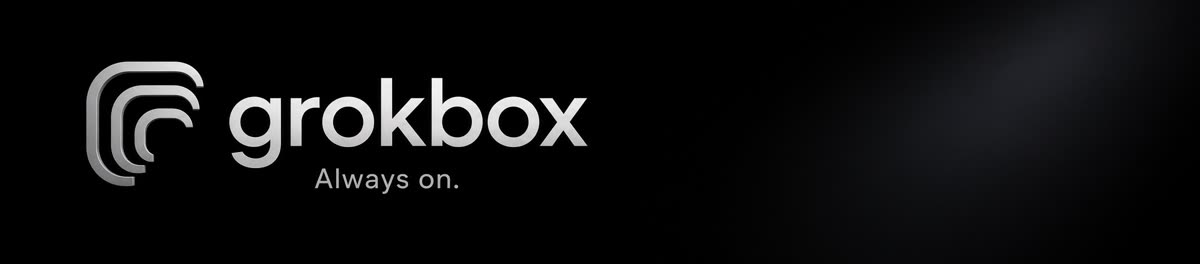
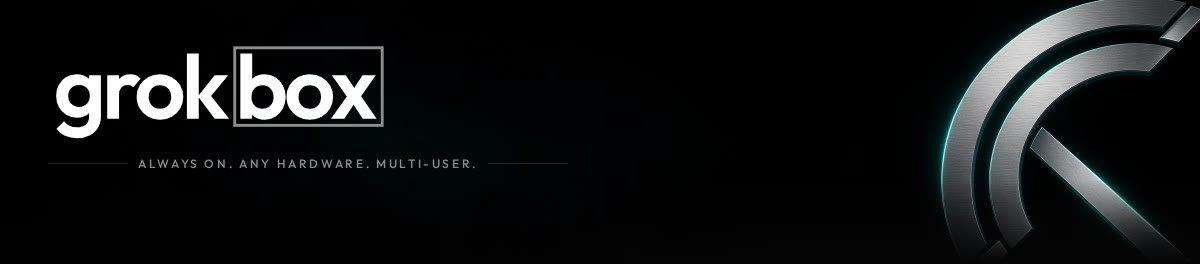
Regenerate share cards from the grokbox wordmark.
Link preview and X banner now lock up the site wordmark and tagline over the nested-arc mark.

Made-with: Grok

Changed region(s): [[0.0308, 0.1515, 0.4933, 0.7273], [0.74, 0.0, 1.0, 0.9394]]

diff --git a/scripts/share-cards.html b/scripts/share-cards.html
@@ -1,0 +1,152 @@
+<!DOCTYPE html>
+<html lang="en">
+  <head>
+    <meta charset="utf-8" />
+    <title>share cards</title>
+    <style>
+      @font-face {
+        font-family: "Outfit Variable";
+        src: url("../node_modules/@fontsource-variable/outfit/files/outfit-latin-wght-normal.woff2")
+          format("woff2");
+        font-weight: 100 900;
+        font-display: block;
+      }
+      html,
+      body {
+        margin: 0;
+        background: #000;
+      }
+      .card {
+        position: relative;
+        overflow: hidden;
+        color: #f4f4f4;
+        font-family: "Outfit Variable", Outfit, ui-sans-serif, system-ui, sans-serif;
+      }
+      .card img.bg {
+        position: absolute;
+        inset: 0;
+        width: 100%;
+        height: 100%;
+        object-fit: cover;
+      }
+      .scrim {
+        position: absolute;
+        inset: 0;
+      }
+      .lockup {
+        position: relative;
+        z-index: 1;
+        display: flex;
+        flex-direction: column;
+        align-items: center;
+        justify-content: center;
+      }
+      .wordmark {
+        display: block;
+        height: auto;
+      }
+      .tagline {
+        display: flex;
+        align-items: center;
+        gap: 14px;
+        margin: 0;
+        color: #8d8d8d;
+        font-weight: 500;
+        letter-spacing: 0.28em;
+        text-transform: uppercase;
+        white-space: nowrap;
+      }
+      .tagline span.rule {
+        height: 1px;
+        flex: 1;
+        background: rgb(244 244 244 / 0.14);
+      }
+      #og {
+        width: 1200px;
+        height: 630px;
+      }
+      #og .scrim {
+        background:
+          radial-gradient(
+            ellipse 70% 70% at 50% 45%,
+            rgb(0 0 0 / 0.42),
+            rgb(0 0 0 / 0.16) 55%,
+            rgb(0 0 0 / 0.52) 100%
+          ),
+          linear-gradient(to top right, #050505 0%, transparent 28%);
+      }
+      #og .lockup {
+        width: 100%;
+        height: 100%;
+        padding: 0 120px;
+        box-sizing: border-box;
+      }
+      #og .wordmark {
+        width: 640px;
+      }
+      #og .tagline {
+        width: min(720px, 100%);
+        margin-top: 28px;
+        font-size: 18px;
+      }
+      #banner {
+        width: 1200px;
+        height: 264px;
+      }
+      #banner .scrim {
+        background:
+          linear-gradient(
+            90deg,
+            rgb(0 0 0 / 0.78) 0%,
+            rgb(0 0 0 / 0.48) 40%,
+            rgb(0 0 0 / 0.1) 66%,
+            transparent 100%
+          ),
+          linear-gradient(to top, #050505 0%, transparent 32%);
+      }
+      #banner .lockup {
+        align-items: flex-start;
+        justify-content: flex-start;
+        width: 50%;
+        padding: 42px 0 0 48px;
+        box-sizing: border-box;
+      }
+      #banner .wordmark {
+        width: 340px;
+      }
+      #banner .tagline {
+        width: 520px;
+        margin-top: 12px;
+        font-size: 12px;
+        letter-spacing: 0.22em;
+        gap: 10px;
+      }
+    </style>
+  </head>
+  <body>
+    <div id="og" class="card">
+      <img class="bg" alt="" src="og-bg.jpg" />
+      <div class="scrim"></div>
+      <div class="lockup">
+        <img class="wordmark" alt="grokbox" src="../public/wordmark.svg" />
+        <p class="tagline">
+          <span class="rule"></span>
+          <span>Always on. Any hardware. Multi-user.</span>
+          <span class="rule"></span>
+        </p>
+      </div>
+    </div>
+    <div id="banner" class="card">
+      <img class="bg" alt="" src="banner-bg.jpg" />
+      <div class="scrim"></div>
+      <div class="lockup">
+        <img class="wordmark" alt="grokbox" src="../public/wordmark.svg" />
+        <p class="tagline">
+          <span class="rule"></span>
+          <span>Always on. Any hardware. Multi-user.</span>
+          <span class="rule"></span>
+        </p>
+      </div>
+    </div>
+  </body>
+</html>
